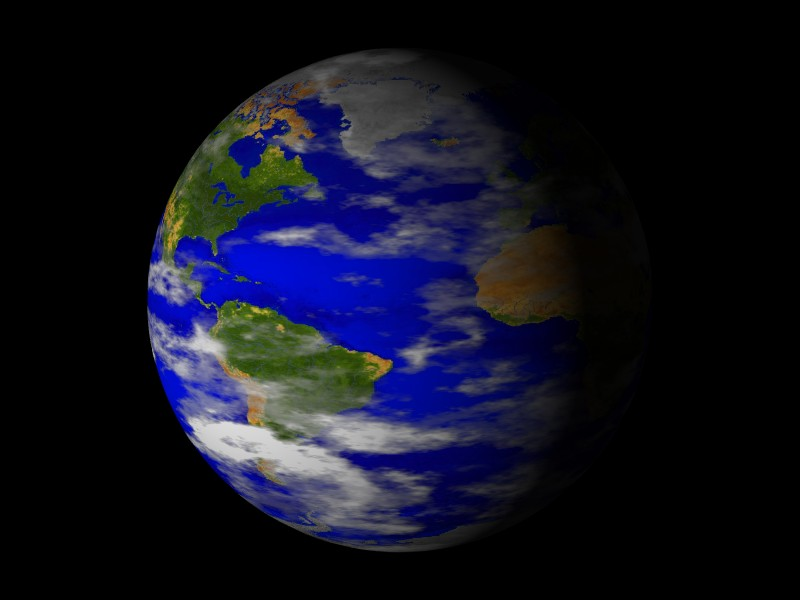
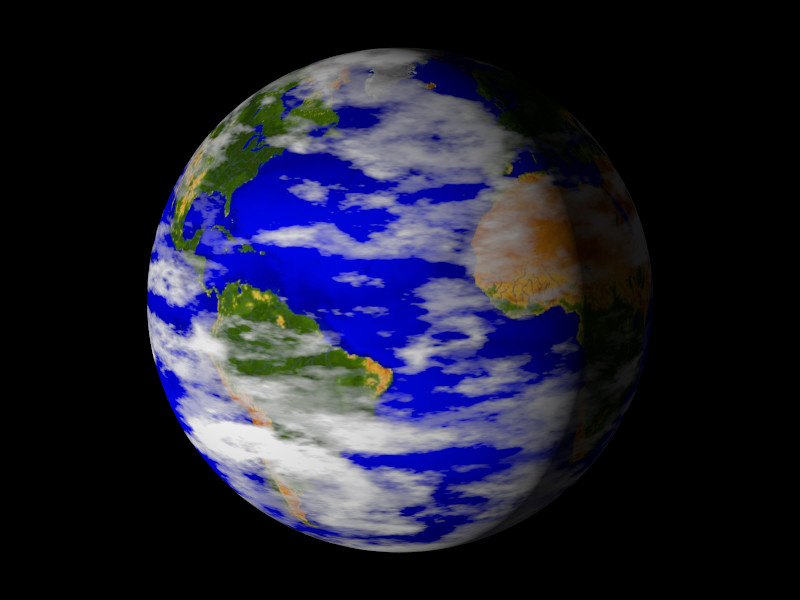
Version 1.1

diff --git a/theearth.html b/theearth.html
@@ -1,13 +1,15 @@
-<html>
+<!DOCTYPE html>
+<html lang="en">
 <head>
-<title>TheEarth.pov</title>
+<meta charset="UTF-8">
+<title>TheEarth.pov | POV-Ray Object Collection</title>
 </head>
 
 <body>
 
-<h2>TheEarth</h2>
-This object comprises a simple scene file and a choice of 3 copyright free images of the earth from <a href="http://www.evl.uic.edu/pape/data/Earth/">http://www.evl.uic.edu/pape/data/Earth/</a>. The scene file maps an image onto a sphere and optionally adds clouds. 
-<a href="http://www.evl.uic.edu/pape/data/Earth/">http://www.evl.uic.edu/pape/data/Earth/</a> also contains higher resolution images than those incorporated in this object and various other earth images derived from different data sources. All of the images there are in a cylindrical (latitude/longitude) projection, so are suitable for mapping to a sphere in the same way. 
+<h2>TheEarth 1.1</h2>
+This object comprises a simple scene file and a choice of 3 copyright free images of the earth from <a href="http://www.evl.uic.edu/pape/data/Earth/">http://www.evl.uic.edu/pape/data/Earth/</a>. The scene file maps an image onto a sphere and optionally adds clouds.
+<a href="http://www.evl.uic.edu/pape/data/Earth/">http://www.evl.uic.edu/pape/data/Earth/</a> also contains higher resolution images than those incorporated in this object and various other earth images derived from different data sources. All of the images there are in a cylindrical (latitude/longitude) projection, and are suitable for <var>uv</var> mapping to a sphere.
 <p>
 
 
@@ -16,28 +18,50 @@ The following variables are set at the top of the sample scene file to facilitat
 
 <h3>TheEarth_CloudsOn</h3>
 Where 0=No and 1=Yes.
-<h3>TheEarth_Rotation</h3> 
-A 3D <x,y,z> vector in degrees.
+<h3>TheEarth_Rotation</h3>
+A 3D &lt;x,y,z> vector in degrees.
 <h3>TheEarth_SourceImage</h3>
-The 3 images included in the download are:    
+The 3 images included in the download are:
 <table>
-  <tr><td>theearth_bigearth.jpg   </td><td>'True' colour representation - high resolution</td></tr>
+  <tr><td>theearth_bigearth.jpg   </td><td>‘True’ colour representation - high resolution</td></tr>
   <tr><td>theearth_topography.jpg </td><td>Colours indicate Heights and Depths           </td></tr>
-  <tr><td>theearth_mapperwdb.jpg  </td><td>World DataBase Country markings               </td></tr>
+  <tr><td>theearth_mapperwdb.jpg  </td><td>World DataBase Country markings ca. 1990      </td></tr>
 </table>
 
 <h2>The Images and Sample Renders</h2>
-  
-<table align=center>
-  <tr><td><b>theearth_bigearth.jpg<b></td></tr>
+
+<table style="margin:auto">
+  <tr><td colspan="2"><b>theearth_bigearth.jpg</b></td></tr>
   <tr>
-    <td><a href="theearth_bigearth.jpg"><img src="theearth_bigearth_tn.jpg" height=240></a></td>
-    <td><a href="theearth.jpg"         ><img src="theearth_bigearth_pov.jpg"          ></a></td>
+    <td><a href="theearth_bigearth.jpg"><img src="theearth_bigearth_tn.jpg" height=240 alt="[‘True’ colour image map]"></a></td>
+    <td><a href="theearth.jpg"><img src="theearth_bigearth_pov.jpg" alt="[‘True’ colour render]"></a></td>
   </tr>
-  <tr><td><b>theearth_topography.jpg<b></td></tr>
-  <tr><td><img src="theearth_topography.jpg" height=240></td><td><img src="theearth_topography_pov.jpg"></td></tr>
-  <tr><td><b>theearth_mapperwdb.jpg<b></td></tr>
-  <tr><td><img src="theearth_mapperwdb.jpg"  height=240> </td><td><img src="theearth_mapperwdb_pov.jpg""></td></tr>
+  <tr><td colspan="2"><b>theearth_topography.jpg</b></td></tr>
+  <tr>
+    <td><img src="theearth_topography.jpg" alt="[Topographical image map]" height=240></td>
+    <td><img src="theearth_topography_pov.jpg" alt="[Topographical  render]"></td>
+  </tr>
+  <tr><td colspan="2"><b>theearth_mapperwdb.jpg</b></td></tr>
+  <tr>
+    <td><img src="theearth_mapperwdb.jpg" alt="[Image map with WDB markings]" height=240></td>
+    <td><img src="theearth_mapperwdb_pov.jpg" alt="[Render with WDB markings]"></td>
+  </tr>
 </table>
+
+<h2>Why <var>uv</var> Mapping?</h2>
+<p>Version 1.0 recommended cylindrical mapping, to match the projection of the image map. That was incorrect, as can be seen in this illustration:
+
+<p style="text-align:center"><img src="theearth_maptype.png" alt="[Diagram of cylindrical and uv mappings, respectively, onto a sphere]">
+
+<p>Compare the renders on this page with a <a href="https://github.com/CousinRicky/POV-TheEarth/blob/bfd8908e2657a56fabfc654b2c6a173cc675aa84/theearth_mapperwdb_pov.jpg">version 1.0 cylindrical render</a>, and check them against a physical globe if you get the opportunity.
+
+<h2 id="About">About TheEarth</h2>
+
+<address>
+ <p>The SDL code is copyright © 2005, 2007 Chris Bartlett and © 2023 Richard Callwood III. Some rights reserved. The image maps are public domain in the United States.
+ <p>This library is free software; you can redistribute it and/or modify it under the terms of the <a href="https://www.gnu.org/licenses/old-licenses/lgpl-2.1.html" target="_blank">GNU Lesser General Public License version 2.1</a> as published by the Free Software Foundation.
+ <p>This library is distributed in the hope that it will be useful, but WITHOUT ANY WARRANTY; without even the implied warranty of MERCHANTABILITY or FITNESS FOR A PARTICULAR PURPOSE.
+</address>
+
 </body>
 </html>
